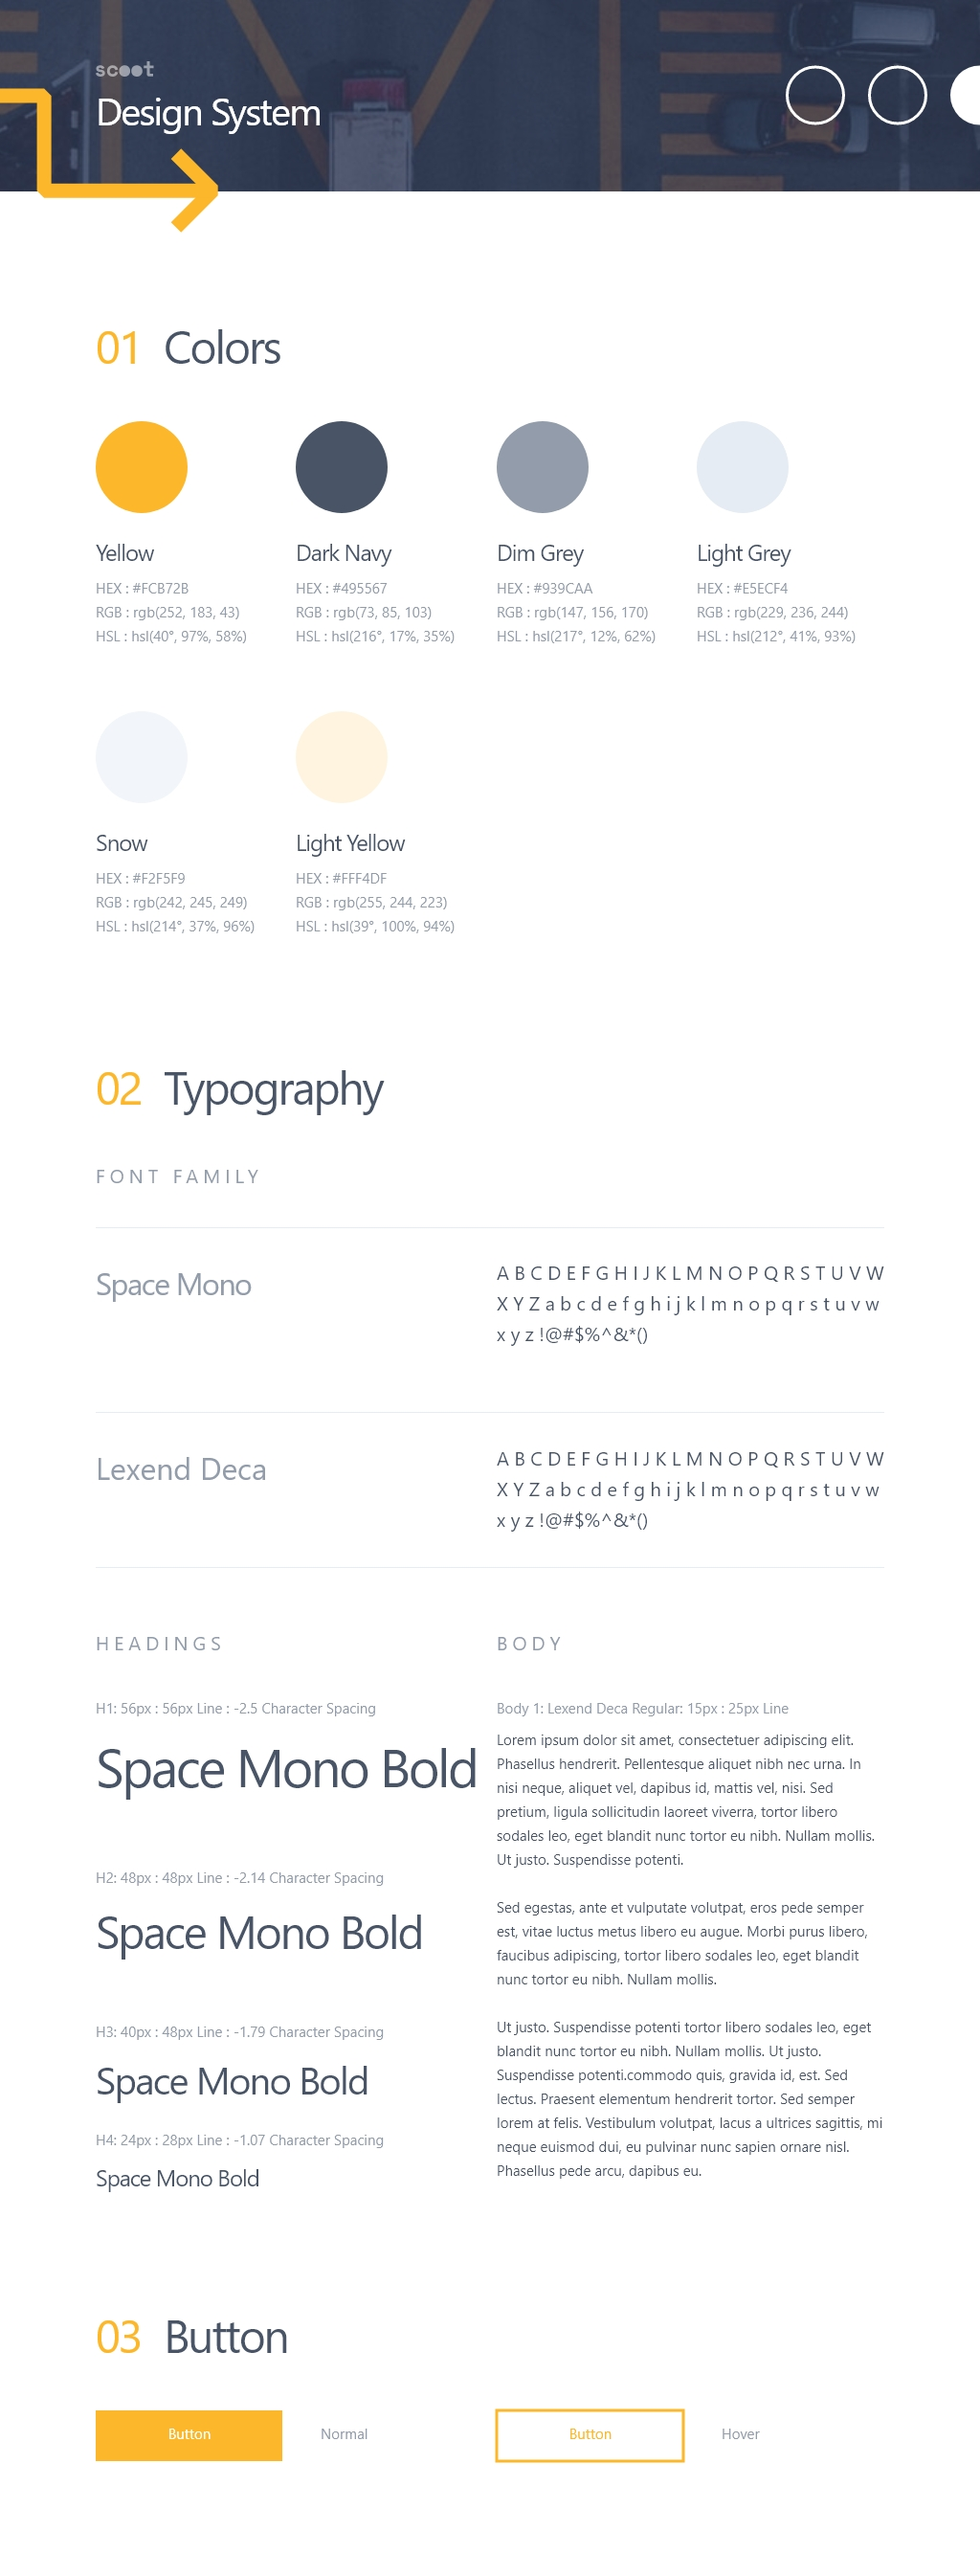
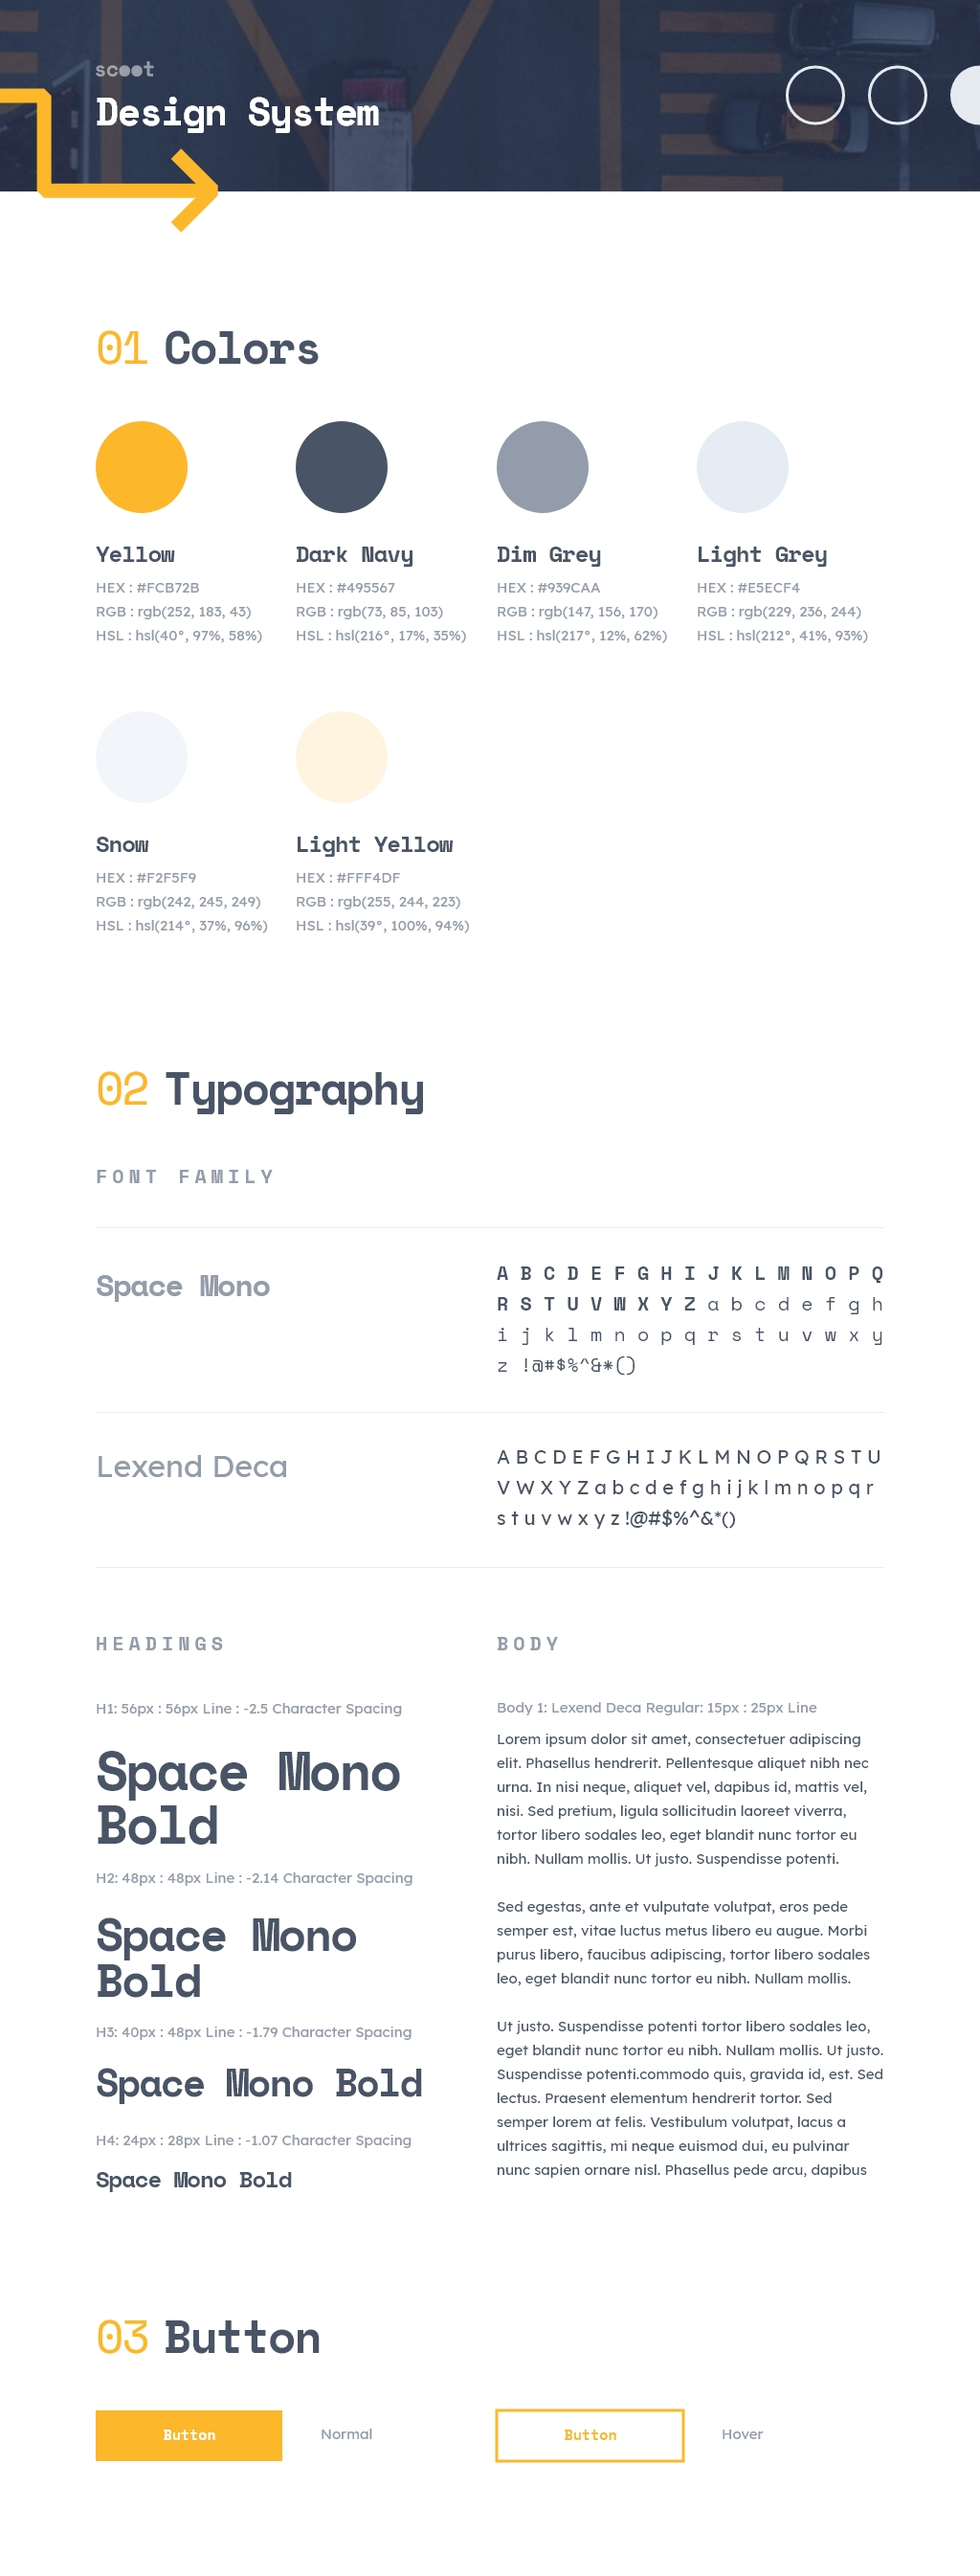
add img

diff --git a/css/style.css b/css/style.css
@@ -1,0 +1,76 @@
+ @import url('https://fonts.googleapis.com/css2?family=Lexend+Deca&family=Space+Mono:wght@700&display=swap');
+
+:root {
+    /* colors */
+    --yellow: hsl(40, 97%, 58%);
+    --dark-navy: hsl(216, 17%, 35%);
+    --dim-grey: hsl(217, 12%, 62%);
+    --light-grey: hsl(212, 41%, 93%);
+    --snow: hsl(214, 37%, 96%);
+    --light-yellow: hsl(39, 100%, 94%);
+
+    /* font familly*/
+    --ff-body: font-family: 'Lexend Deca', sans-serif;
+    --ff-heading: font-family: 'Space Mono', monospace;
+    
+    /* font size */
+    --fs-400: .938rem;
+    --fs-h1-700: 3.5rem;
+    --fs-v2-700: 3rem; 
+    --fs-v3-700: 2.5rem;
+    --fs-v4-700: 1.5rem; 
+
+    /* font weight */
+    --fw-400: 400;
+    --fw-700: 700;
+}
+
+
+ /* reset setting */
+ *,
+ *::after,
+ *::before {
+     box-sizing: border-box;
+     margin: 0;
+     padding: 0;
+ }
+
+ :focus {
+     outline: none;
+ }
+
+ picture,
+ img {
+     max-width: 100%;
+     display: block;
+ }
+
+ body {
+     font-family: 'Lexend Deca',
+     sans-serif;
+     font-size: .938rem;
+     min-height: 100vh;
+     text-rendering: optimizeSpeed;
+     line-height: 1.5;
+     overflow-x: hidden;
+ }
+
+ h1,
+ h2,
+ h3,
+ h4,
+ h5,
+ h6 {
+     font-family: 'Space Mono',
+     monospace;
+ }
+
+ a {
+     text-decoration: none;
+ }
+
+ li {
+     list-style: none;
+ }
+
+ /* end reset setting */
